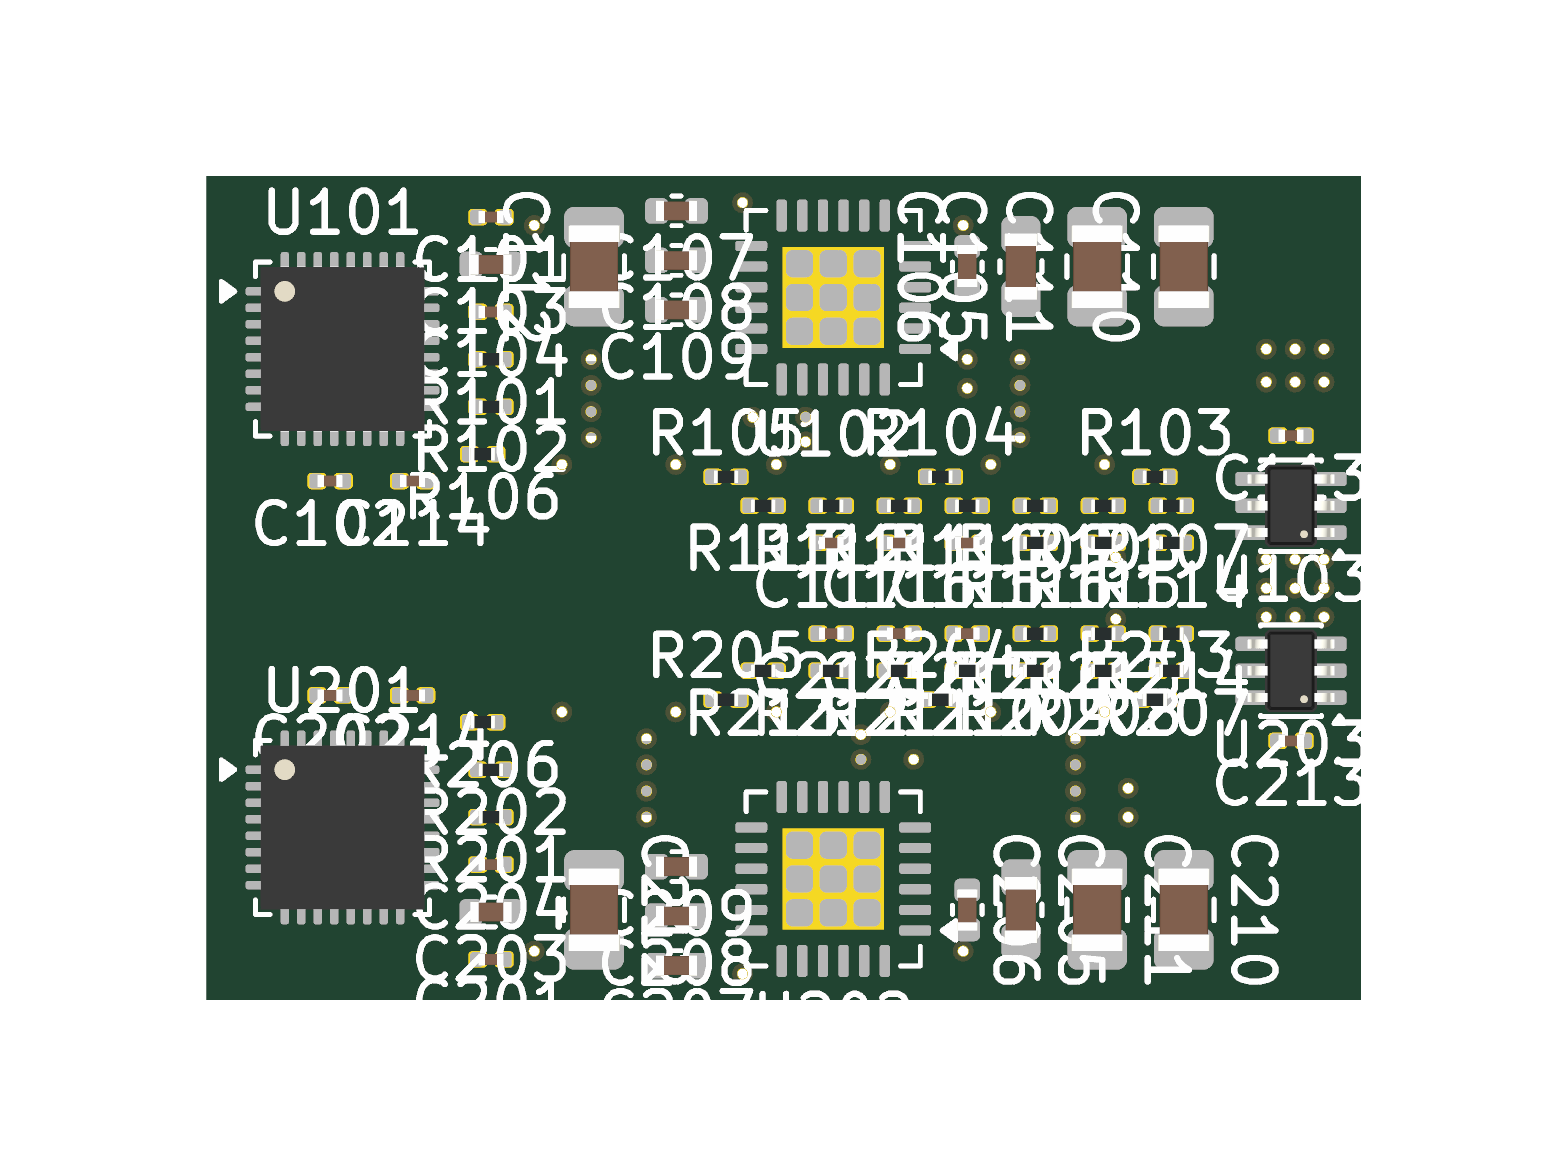
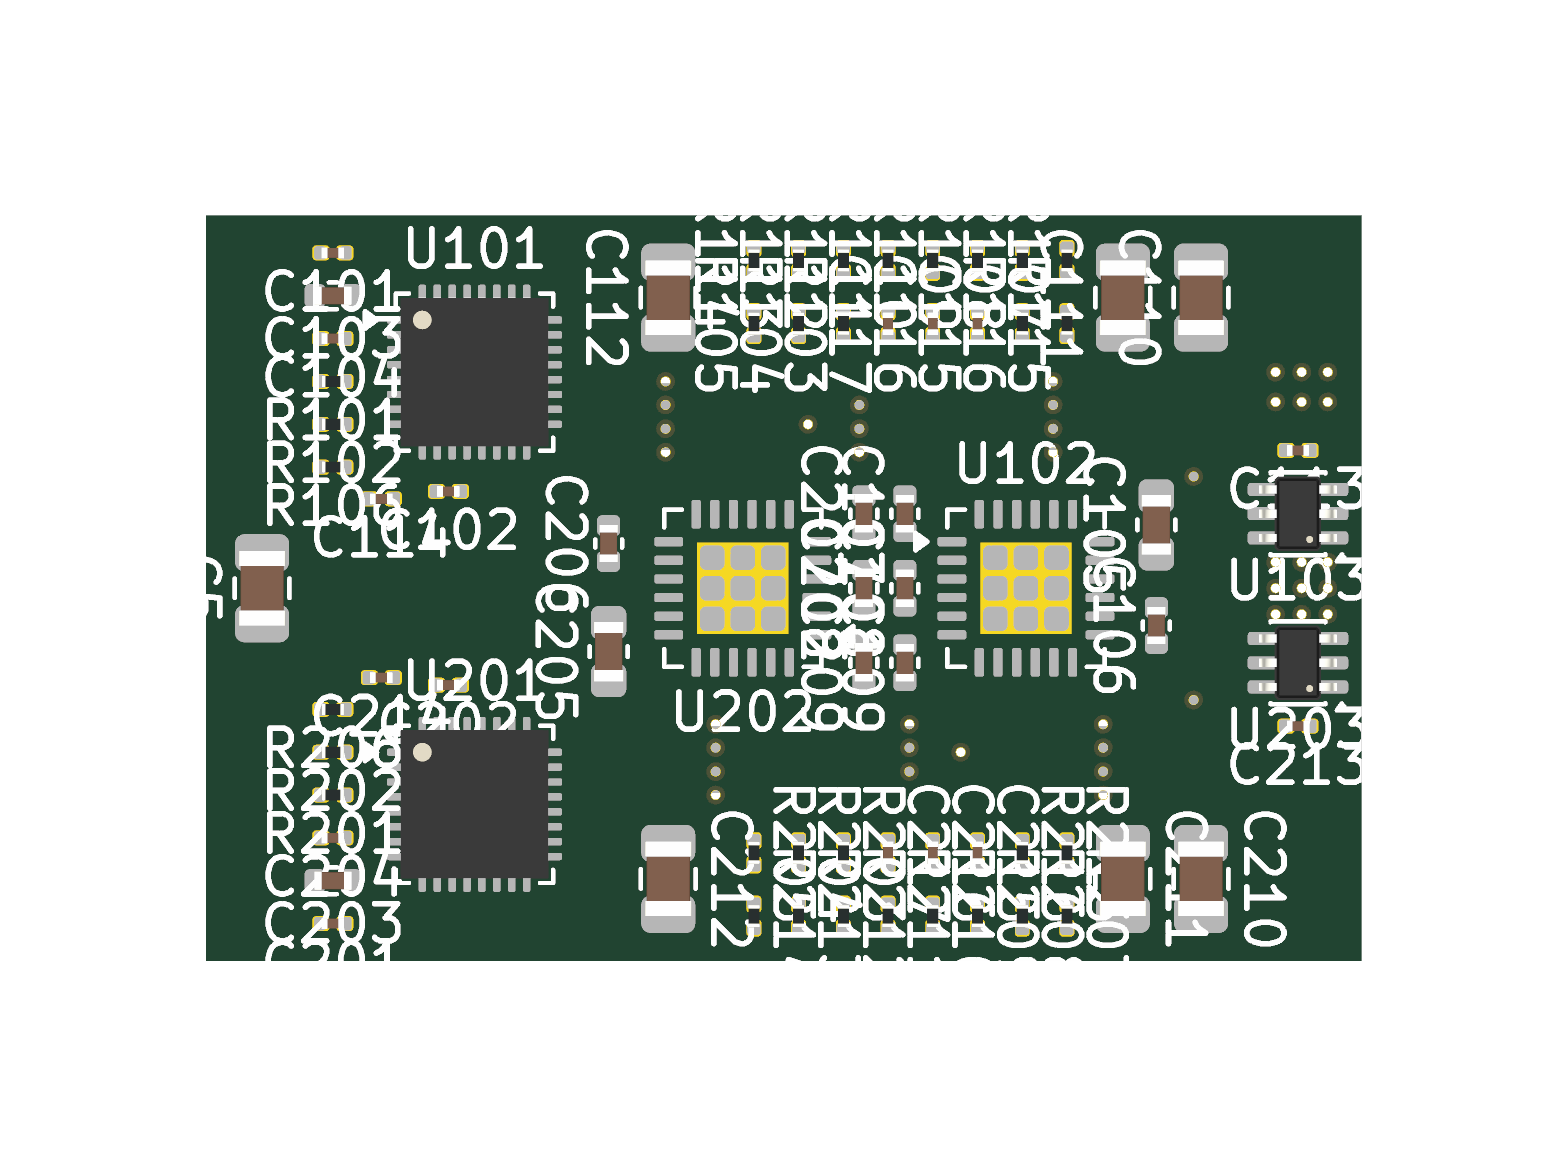
dual_smd: README for the 6-layer 31 x 20 placement (stackup, via-in-pad, 1 oz note, routing notes); fresh renders

Changed region(s): [[0.125, 0.1224, 0.875, 0.8571]]

diff --git a/hardware/dual_smd/README.md b/hardware/dual_smd/README.md
@@ -6,8 +6,9 @@ its own Artery AT32F421 running the stock **AM32** firmware target
 DRV8300 gate driver and three AOS AON7934 dual half-bridge MOSFETs. A shared
 buck gives 5 V for the receiver (BEC), and an LDO gives 3.3 V for both MCUs.
 
-**Status:** schematic drawn and checked (ERC clean); PCB placed at 28 x 20 mm,
-routing: see [PCB status](#pcb-status). Not built. Part numbers marked
+**Status:** schematic drawn and checked (ERC clean). The PCB is **placed
+but not routed**: 6 layers, 31 x 20 mm. It needs interactive routing in
+KiCad (see [Routing notes](#routing-notes)). Not built. Part numbers marked
 "verify" must be checked before ordering.
 
 ## Targets
@@ -88,73 +89,76 @@ AT32F421 QFN32 is **not** pin-identical to the STM32F051K8U: its pins 16 and
 
 ## PCB status
 
-The PCB is **placed on 4 layers at 28 x 20 mm but not routed**.
+**Placed, not routed.** The board is 31 x 20 mm with 6 layers. All 129
+on-board parts fit with no courtyard overlaps, and placement DRC is clean
+(only unconnected items). Renders: `kicad/render_top.png`,
+`kicad/render_bottom.png`.
 
-**Stackup:** 1.6 mm, JLC04161H-7628 style, 2 oz outer / 0.5 oz inner. JLC
-offers 2 oz outer copper on 4-layer boards; confirm when ordering.
+### Stackup (1.6 mm, JLC 6-layer style)
 
 | Layer | Use |
 |---|---|
-| L1 top | Power zones (phase nodes, low-side source buses, VBAT drain islands), signals |
+| L1 top (1 oz) | MOSFETs, phase / battery pads, shunts, gate resistors, BEC, LDO; power zones (phase nodes, low-side source buses, VBAT drain islands) |
 | L2 | Solid GND plane |
-| L3 | VBAT plane (x < 24 mm), GND beyond |
-| L4 bottom | Gate drivers, MCUs, sense networks, signals |
+| L3, L4 | Signal |
+| L5 | VBAT plane (GND beyond x = 27.4 mm) |
+| L6 bottom (1 oz) | Both DRV8300s, both MCUs, current-sense amps, BEMF networks, small passives |
 
-**Placement:** all 117 on-board parts fit with no courtyard overlaps
-(`kicad/render_top.png`, `kicad/render_bottom.png`,
-`kicad/layer_L2_GND.png`, `kicad/layer_L3_VBAT.png`).
+**Outer copper is 1 oz.** JLC offers 2 oz outer on 6-layer boards, but then
+the minimum trace / space is 0.16 mm, and the QFN escapes need 0.13 mm.
+At 1 oz the outer power zones carry about half the current of 2 oz, so the
+10-12 A phase and battery paths should be widened where possible,
+solder-tinned, or reinforced with bus wire. The MOSFET drains also reach the
+L5 VBAT plane through vias.
 
-- **Gate drivers:** each DRV8300 is on the bottom, right under its motor's
-  middle phase pad. That puts it within a few mm of all three AON7934 gates
-  and phase nodes.
-- **MCUs:** at the bottom right, no longer under the drivers.
-- **BEMF filter caps:** 1 nF on each divided phase was added (C115-C117,
-  C215-C217).
-- **Gate series resistors:** don't fit, so they are still left out.
+**Via-in-pad:** every DRV8300 and MCU signal pin has a filled via-in-pad,
+0.3 mm diameter with a 0.15 mm hole, epoxy filled and capped. That is within
+JLC's multilayer minimum of a 0.15 mm hole / 0.25 mm via, at a surcharge.
+One JLC blog gives 0.20 mm as the minimum hole for via-in-pad, so confirm
+before ordering. A 0.20 mm hole means 0.35-0.4 mm vias, which do not fit
+side by side at the MCU's 0.4 mm pitch. The vias are staggered along the
+pad length.
 
-**0201:** 48 small-signal parts moved to 0201 (BEMF dividers, neutral
-network, BEMF filter caps, gate pull-downs, BOOT0 / SIG / INA-output
-resistors, MCU and INA 100 nF caps, NRST cap, ISENSE filter cap, Vbat
-divider). The GVDD and bootstrap caps (25 V), the 1 uF caps and the bus and
-bulk caps keep their larger sizes.
+**Placement:**
+- Both DRV8300s are in the bottom middle band, with only the low-side bus
+  zones above them. Bootstrap caps sit between the drivers, GVDD caps beside
+  them.
+- The 4.7 R gate series resistors are on top, just under each gate pin.
+- The BEMF networks, BEMF filter caps and gate pull-downs are on the bottom,
+  under the phase pads.
+- The MCUs are bottom right with nothing above their pins (checked with
+  `tools/above_check.py`).
+- The bus caps are under the phase pads. The LDO, BEC and SWD pads are top
+  right.
 
-LCSC stock checked (2026-11-21):
-- 100 nF 10 V X5R 0201: C284966
-- 10 nF 25 V X7R 0201: C285010
-- 1 nF 50 V X7R 0201: C301887
-- 10k 0201 1 %: C6853700
-- Other resistor values: the UNI-ROYAL 0201WMF ±1 % series covers 1 R-10 M
-  (25 V), so they are in stock.
+**0201 parts:** 48 small-signal parts are 0201. LCSC stock was checked
+2026-11-21:
+- 100 nF 10 V: C284966
+- 10 nF 25 V: C285010
+- 1 nF 50 V: C301887
+- 10k: C6853700
+- Other resistor values: UNI-ROYAL 0201WMF ±1 % series
 
-**Routing: not closed.**
+### Routing notes
 
-- **31 x 20 mm, 4 layers:** Freerouting leaves 149 unrouted, `gridroute.py`
-  about 86, `negroute.py` 67 overlapping nets.
-- **6-layer trial at 31 x 20** (the committed board): L1 / L6 parts and
-  power, L2 GND, L3 / L4 signal, L5 VBAT. `negroute.py` gets down to 53-55
-  overlapping nets (plus 4 unroutable) and then plateaus.
-- **Remaining conflicts:** fine-pitch escape round each DRV8300 and MCU.
-  The most crowded spot is the driver pin row nearest the board edge, where
-  several pins must escape through room for one track. Extra inner layers
-  only help once each pin can drop to them, which needs via-in-pad / HDI
-  vias (0.3 / 0.15 mm or smaller) at the 0.5 mm driver and 0.4 mm MCU pitch,
-  or a placement with no pin row facing the edge.
-- **JLC 6-layer, 2 oz outer:** available, but the minimum trace / space is
-  then 0.16 mm. The last trial therefore uses 1 oz outer copper (0.13 mm
-  spacing at the QFN escapes). At 1 oz the power zones carry about half the
-  current of 2 oz, so the 10-12 A paths would need wider copper or tinned /
-  bus-barred phase and battery paths.
-- **Last automated attempt (via-in-pad):** filled vias of 0.3 / 0.15 mm on
-  the driver and MCU signal pins, using JLC's multilayer minimum of 0.15 mm
-  hole / 0.25 mm via with epoxy fill and cap (JLC PCB capabilities page; one
-  JLC blog gives 0.20 mm as the minimum hole for via-in-pad).
-  - 47 pins got one. 31 could not, because a top-side part (phase pad,
-    LDO, pads) sits directly above the pin.
-  - `negroute.py` then plateaued at 59 overlapping nets plus 1 unroutable.
-  - Automated routing stopped there. The next step is interactive routing,
-    or a placement where the drivers and MCUs have nothing above them.
+Automated routing was tried and plateaued at about 55-65 conflicting nets
+in every setup: Freerouting 2.5.0, and `tools/gridroute.py` / `negroute.py`
+on 4 and 6 layers, with and without via-in-pad. Route it interactively in
+KiCad:
 
-The committed board is the unrouted 6-layer placement.
+1. Route the DRV8300 and MCU fanouts first. Drop each signal pin through
+   its via-in-pad to L3 / L4, then run the six INH/INL lines per channel,
+   the gate lines (driver -> 4.7 R on top -> FET gate) and the BST / SH
+   lines on L3 / L4.
+2. Keep each GHx / SHx pair together. Keep gate loops short.
+3. Power stays in the L1 / L6 zones: phase nodes, low-side buses to the
+   shunts, and VBAT drain islands with their vias to L5. Don't route
+   signals through them on L1.
+4. Run the BEMF / neutral / ISENSE lines to the MCU on L3 / L4. The shunt
+   Kelvin lead (INA186 IN+) goes from the LS tap via.
+5. Finish with the top / bottom GND fill and stitching vias to L2. GND /
+   VBAT pads already have fanout vias where `tools/route_pcb.py` placed
+   them.
 
 ## Files
 
@@ -164,6 +168,8 @@ The committed board is the unrouted 6-layer placement.
   readable sheet. Labels are used only between blocks.
 - `tools/check_schematic.py`: rebuilds connectivity from the drawn wires and
   fails unless it matches `PARTS`.
+- `tools/above_check.py`: checks no part on the other side sits over a DRV8300 / MCU pin.
+- `tools/negroute.py`: negotiated-congestion (rip-up) router experiment.
 - `tools/gridroute.py`: grid maze router for the outer layers (power fanout, then signal nets).
 - `tools/route_pcb.py`: power fanout, Freerouting run, keep-out removal, GND fill and stitching.
 - `tools/build_pcb.py`: builds `kicad/dual_esc.kicad_pcb`. It places the parts,
